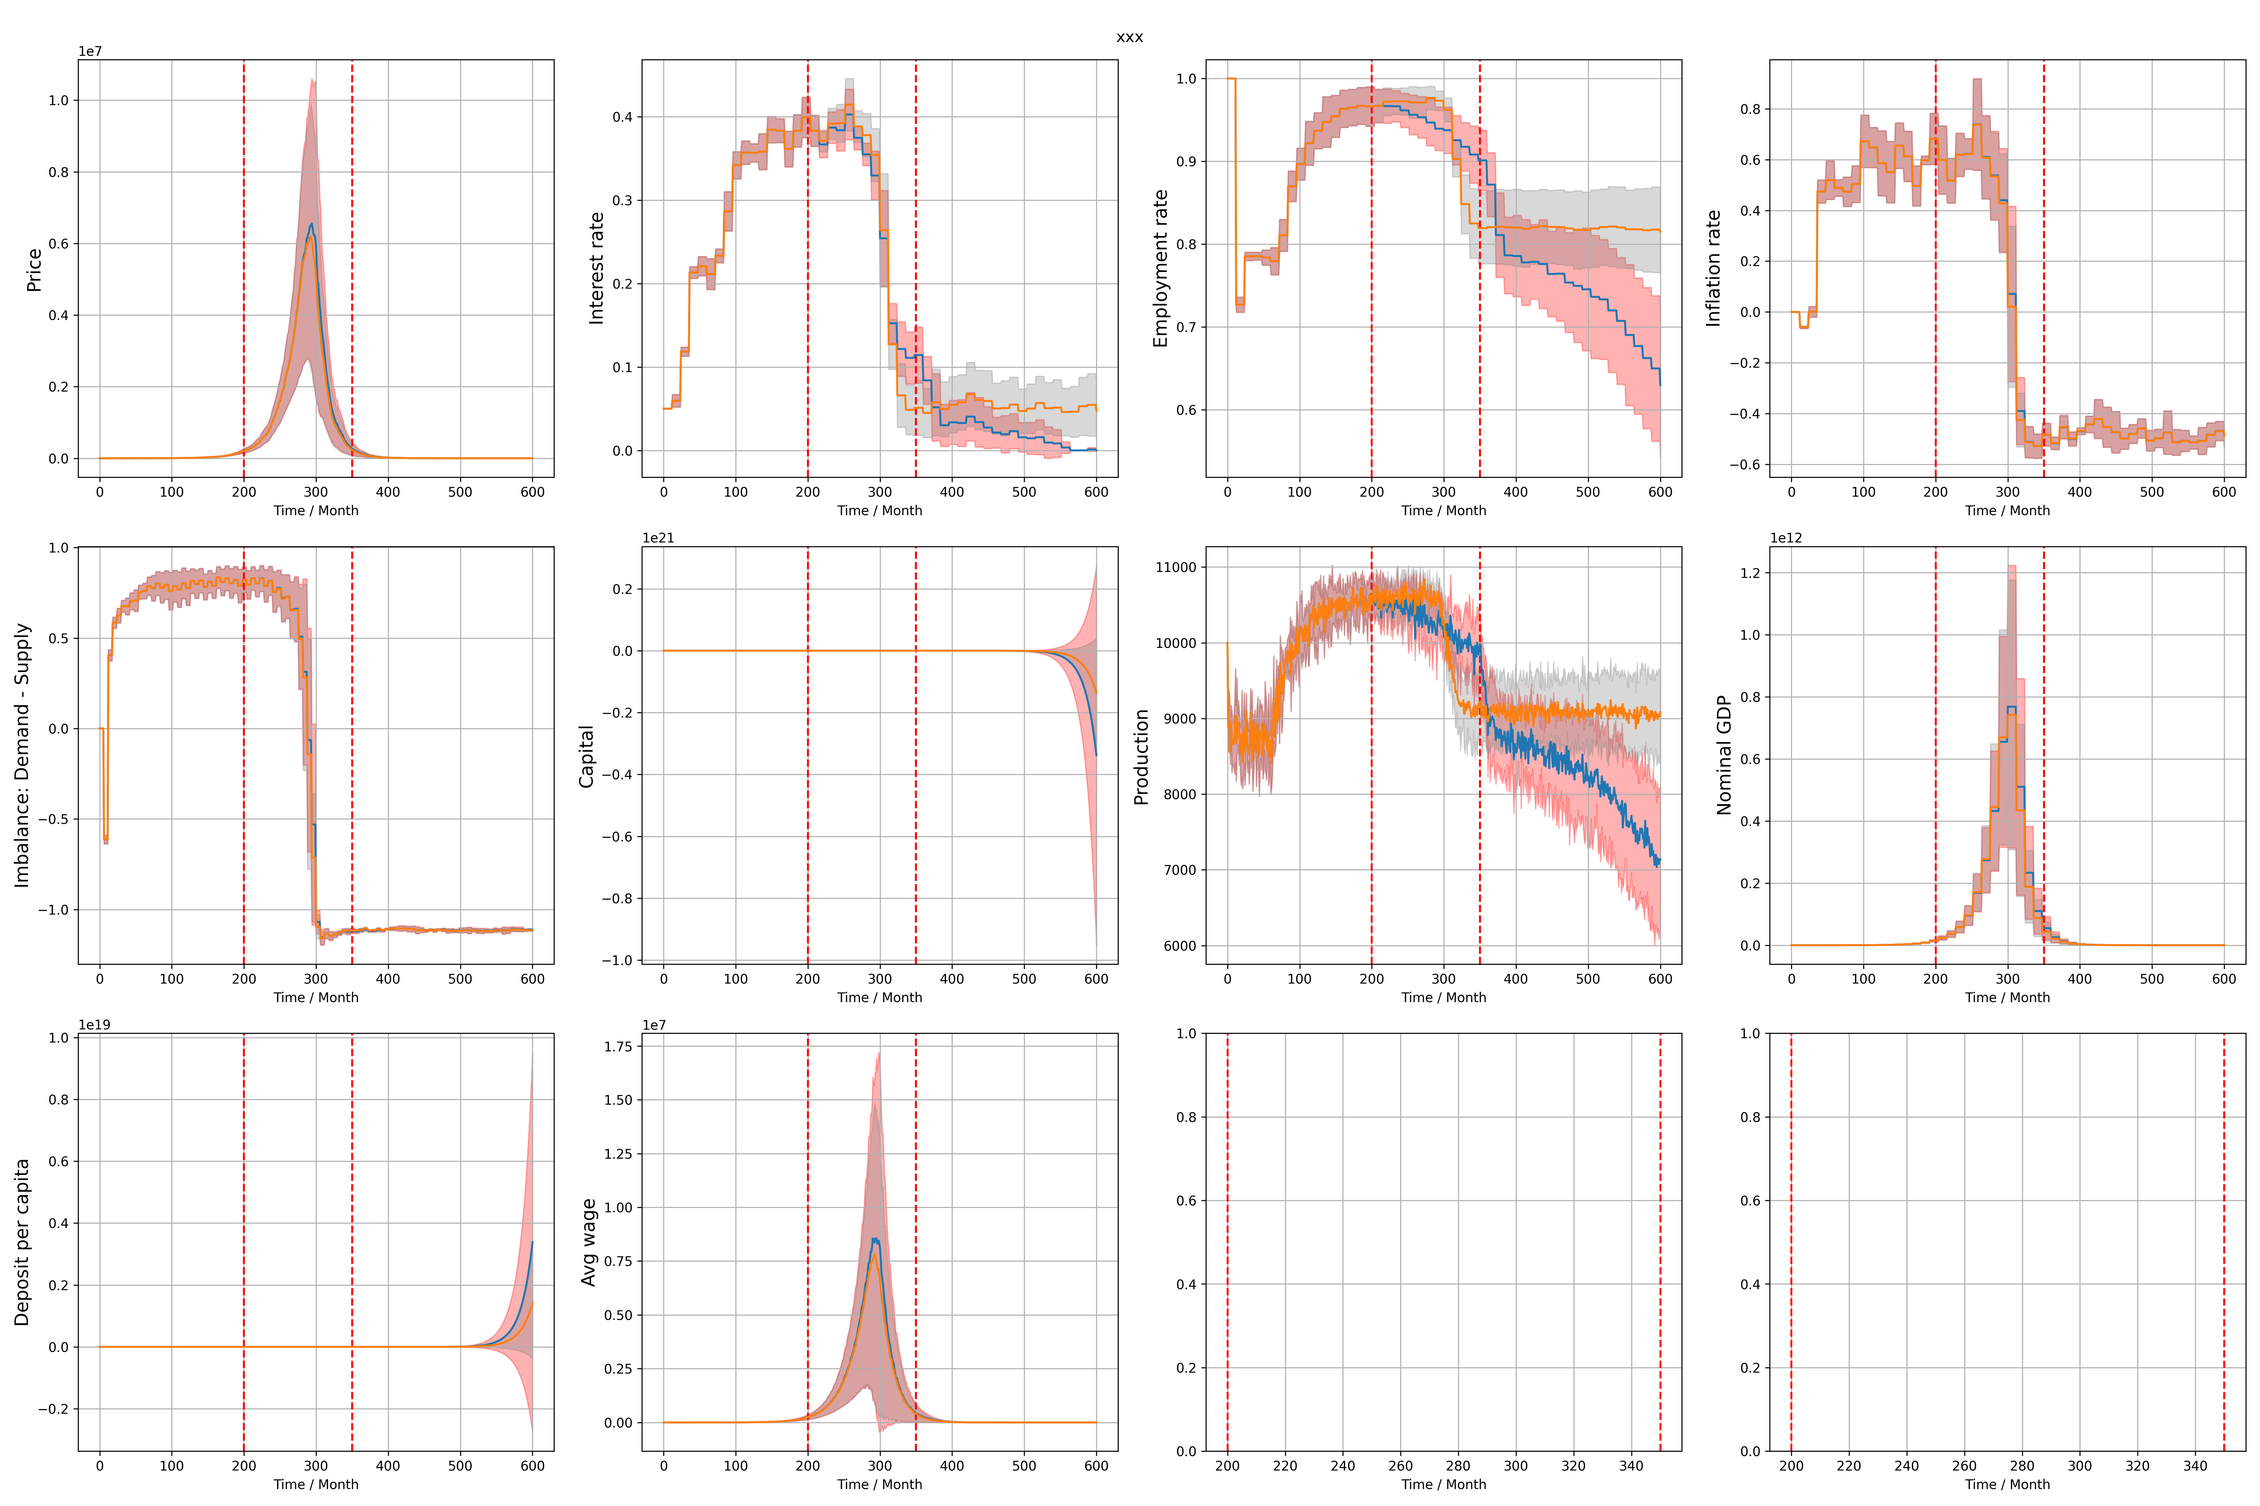
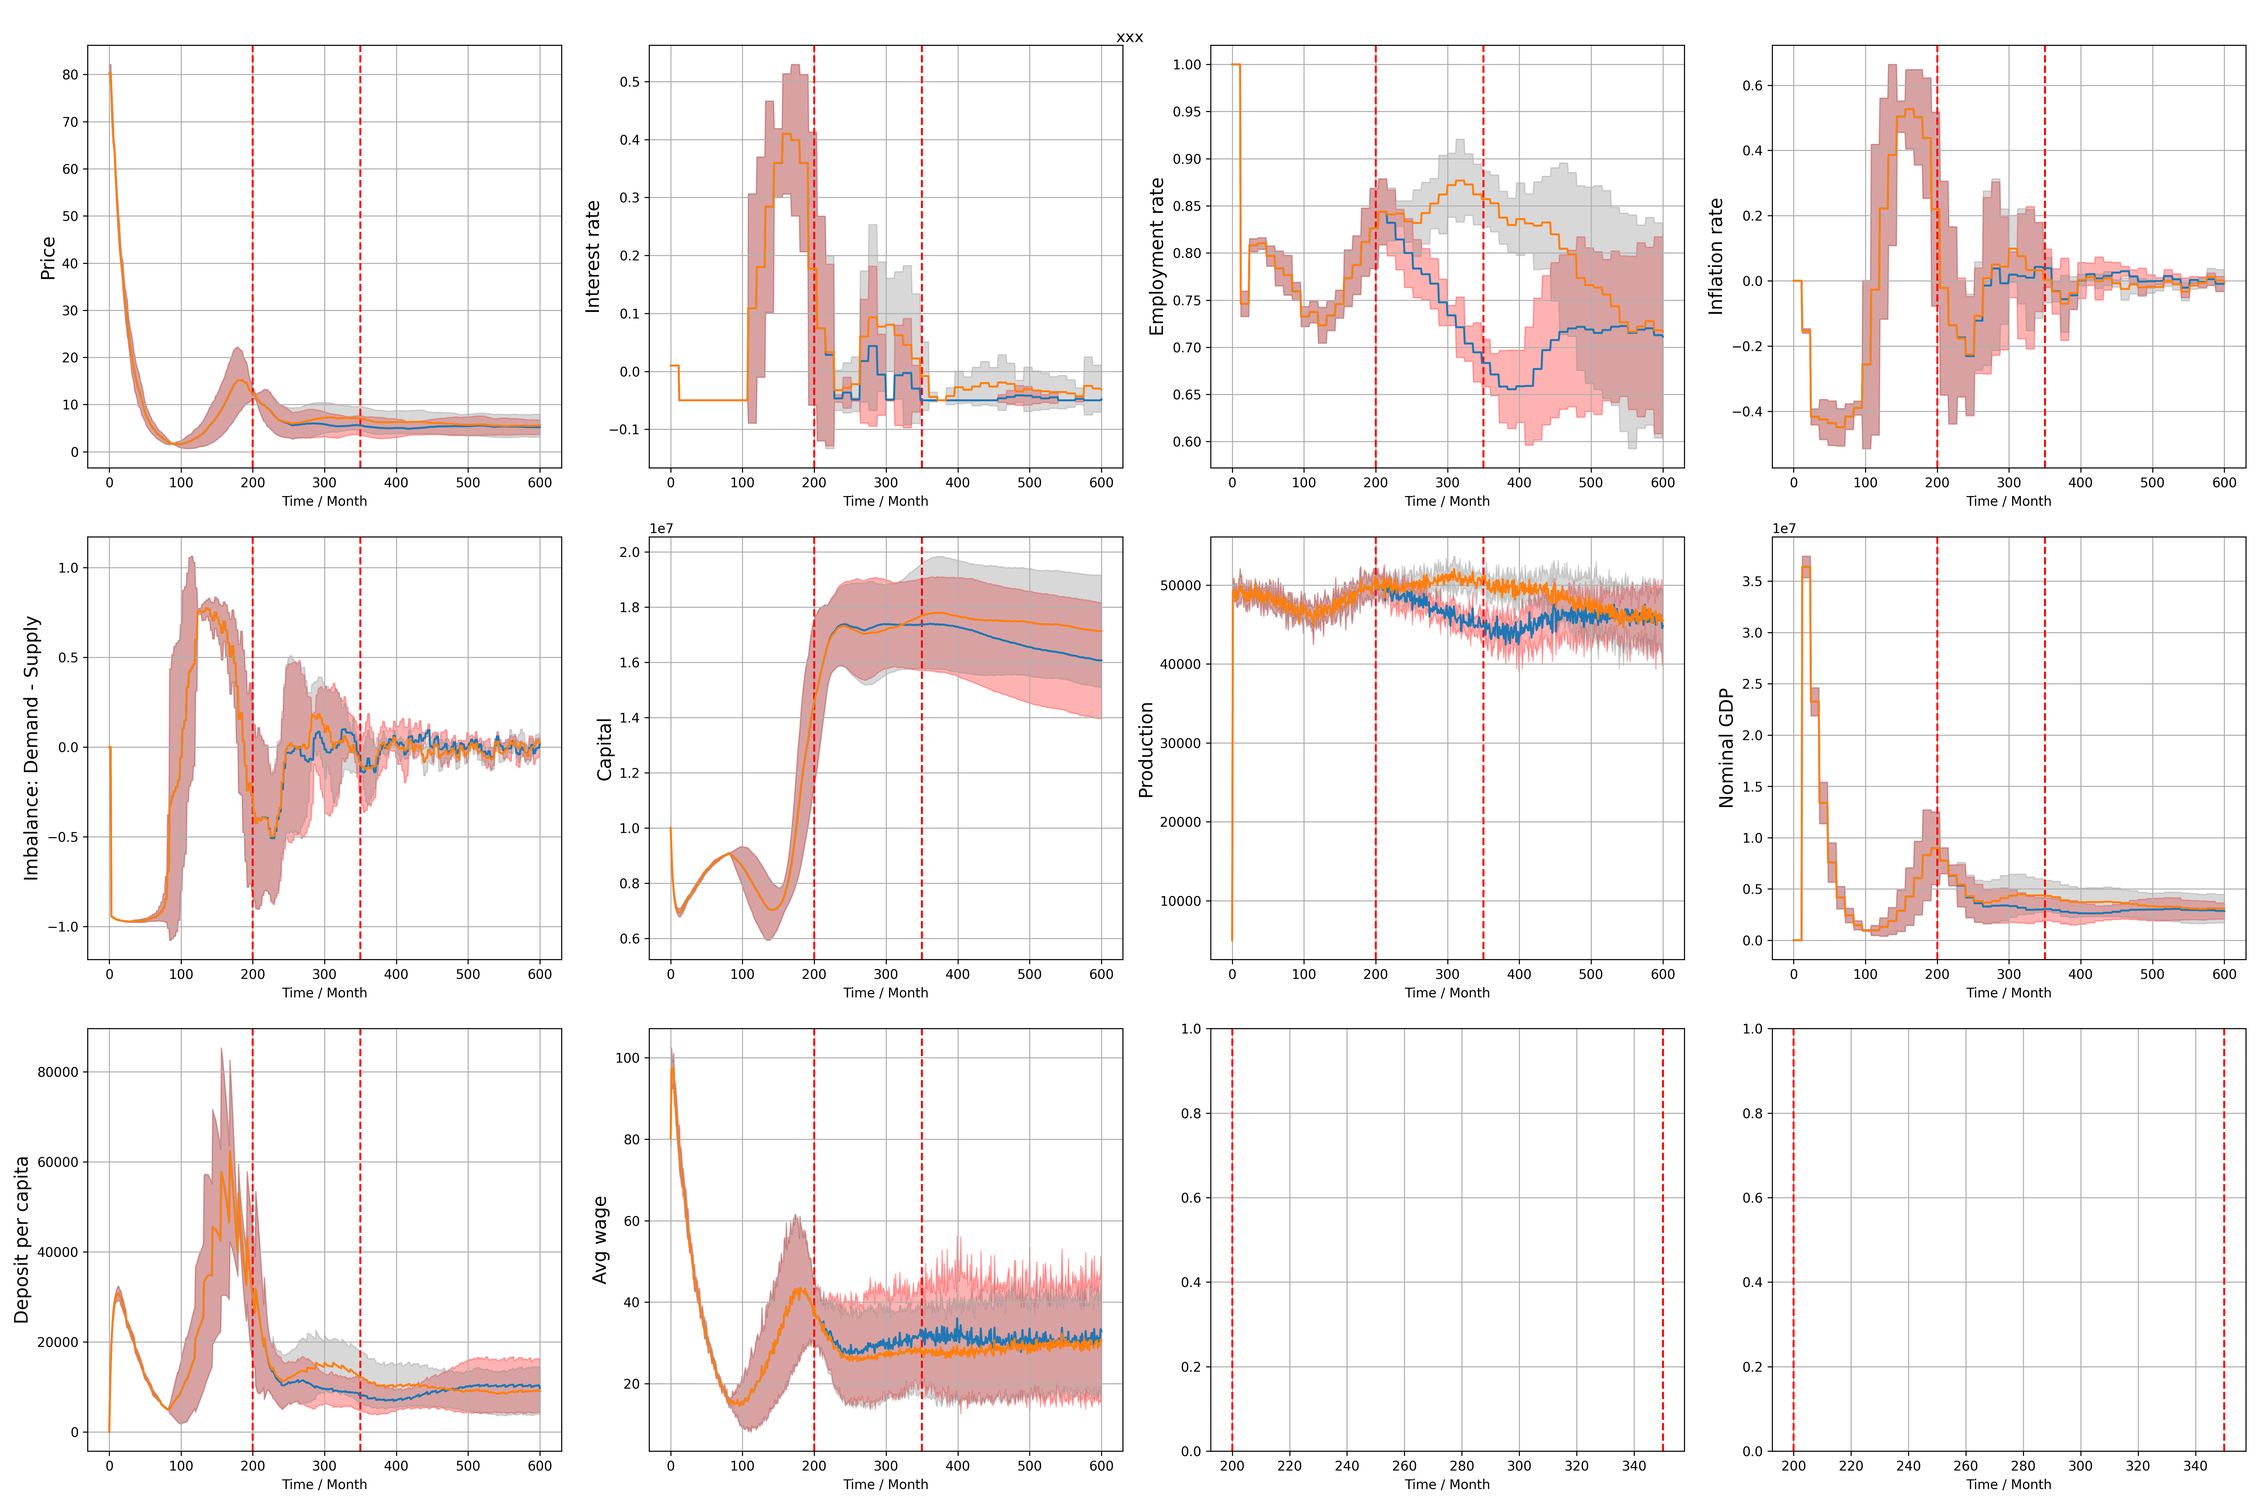
123

diff --git a/main.py b/main.py
@@ -12,10 +12,11 @@ def simulation(config:Configuration, event=False, intervention=False):
     '''one episode of simulation'''
     random.seed(config.seed)
     np.random.seed(config.seed)
-    
+    a_w = []
     F = firm(A=config.A, 
              alpha_w=config.alpha_w, 
              alpha_p=config.alpha_p,
+             alpha_c=config.alpha_c,
              init_good=config.init_good,
              init_cap=config.init_cap,
              )
@@ -54,7 +55,7 @@ def simulation(config:Configuration, event=False, intervention=False):
     
     for t in range(1, config.num_time_steps+1):
         
-        ################ 事 件 开 始 ################
+        ########################## 事 件 开 始 ##########################
         # 降低就业意愿
         # 产量减少，工资收入减少
         # GDP下降
@@ -73,49 +74,48 @@ def simulation(config:Configuration, event=False, intervention=False):
             if t >= config.event_start and t <= config.event_end:
                 for a, pw in zip(agents, a_pw):
                     # a.pw = 0.1 ** (1/300) * a.pw # 在t=900时，就业意愿下降到t=500时的25%
-                    a.pw = (0.6 ** (1/(config.event_end-config.event_start))) ** (t-config.event_start) * pw
+                    a.pw = (0.8 ** (1/(config.event_end-config.event_start))) ** (t-config.event_start) * pw
             work_state = [a.work_decision() for a in agents] # work decision
         else:
             work_state = [a.work_decision() for a in agents] # work decision
-        ################ 事 件 结 束 ################
+        ########################## 事 件 结 束 ##########################
         
         production = F.produce(agents) # 生产
         wages = F.pay_wage(agents)     # 支付工资
-        taxes = taxation(wages)        # 计算个税
-        wages_after_tax = [w - t for w, t in zip(wages, taxes)]
+        taxes, wages_after_tax = taxation(wages)        # 计算个税
+        
         for a, w in zip(agents, wages_after_tax):
             a.z = w # update monthly income
-            # print(t, a.id, w, sum(taxes), w + sum(taxes)/config.num_agents)
             
-            ################ 干 预 开 始 ################
+            ########################## 干 预 开 始 ##########################
             if t >= config.intervent_start and t <= config.intervent_end and intervention:
-                B.deposit(a.id, w + sum(taxes)/config.num_agents + 400) # 0.04*B.deposits[a.id] redistribution
+                B.deposit(a.id, w + sum(taxes)/config.num_agents + 100) # 0.04*B.deposits[a.id] redistribution
             else:
                 B.deposit(a.id, w + sum(taxes)/config.num_agents) # redistribution
-            ################ 干 预 结 束 ################
+            ########################## 干 预 结 束 ##########################
+        
+        
         if t % 3 == 0:
             imba = imbalance(agents, F.P, F.G, B.deposits)
         
         ###########################################
         # consumption in random order 随机顺序消费 #
         ###########################################
-        total_consume_money, total_consume_quantity, deposits = consumption(config, agents, F.G, F.P, B.deposits)
-        F.capital += total_consume_money
-        # print(t, '总消费量: ', total_consume_money)
-        #############################
-        # price and wage adjustment #
-        #############################
+        total_money, total_quantity, deposits = consumption(config, agents, F.G, F.P, deepcopy(B.deposits))
+        F.capital += total_money
+        # print(t, '总消费量: ', total_money)
         
+        ###########################################
+        # price and wage adjustment 调整工资和价格 #
+        ###########################################
         F.wage_adjustment(agents, imba)
         F.price_adjustment(imba)
-        F.G -= total_consume_quantity
-        print(B.deposits[1])
+        F.G -= total_quantity
         B.deposits = deposits
-        print(B.deposits[1], '\n')
         
-        #####################
-        # annual operation  #
-        #####################
+        ############################
+        # annual operation 年度调整 #
+        ############################
         if t % 12 == 0:
             B.interest(agents) # interest payment
             unem_rate = unemployment(log)
@@ -123,7 +123,6 @@ def simulation(config:Configuration, event=False, intervention=False):
             B.rate_adjustment(unem_rate, infla_rate) 
             Nominal_GDP = GDP(log)
         
-        print(t, F.capital)
         log[t] = {
             'year': t // 12.1 + 1,
             'work_state': work_state, 
@@ -141,9 +140,14 @@ def simulation(config:Configuration, event=False, intervention=False):
             'capital': F.capital,
             }
         
-        if t % 3 == 0 and t > 30:
+        if t % 6 == 0 and t > 30:
             for a in agents:
                 a.adjust(t, log)
+        a_w.append(agents[0].pc)
+    # import matplotlib.pyplot as plt
+    # plt.plot(a_w)
+    # print(a_w)
+    # plt.show()
 
     return log
 
@@ -152,40 +156,40 @@ if __name__ == '__main__':
     from config import Configuration
     from time import time
     
-    config = Configuration()
-    t1 = time()
-    log = simulation(config, event=False, intervention=False)
-    plot_log('./figs/log.png', log, config)
-    print('running time:{:.3f}'.format(time()-t1))
-    
     # config = Configuration()
-    # config.seed = 123456
-    # logs, logs_no_event = [], []
-    # for i in range(5):
-    #     print(f'Simulation {i+1}/5')
-    #     config.seed += i
-    #     log = simulation(config, event=True, intervention=True)
-    #     logs.append(log)
-    #     log = simulation(config, event=False, intervention=False)
-    #     logs_no_event.append(log)
-    # plot_bar('./figs/bar-event-intervention.png', logs, logs_no_event, config)
+    # t1 = time()
+    # log = simulation(config, event=True, intervention=True)
+    # plot_log('./figs/log.png', log, config)
+    # print('running time:{:.3f}'.format(time()-t1))
     
-    # config.seed = 123456
-    # logs = []
-    # for i in range(5):
-    #     print(f'Simulation {i+1}/5')
-    #     config.seed += i
-    #     log = simulation(config, event=True, intervention=False)
-    #     logs.append(log)
-    # plot_bar('./figs/bar-event-no-intervention.png', logs, logs_no_event, config)
+    config = Configuration()
+    config.seed = 123456
+    logs, logs_no_event = [], []
+    for i in range(5):
+        print(f'Simulation {i+1}/5')
+        config.seed += i
+        log = simulation(config, event=True, intervention=True)
+        logs.append(log)
+        log = simulation(config, event=False, intervention=False)
+        logs_no_event.append(log)
+    plot_bar('./figs/bar-event-intervention.png', logs, logs_no_event, config)
     
-    # config.seed = 123456
-    # logs = []
-    # for i in range(5):
-    #     print(f'Simulation {i+1}/5')
-    #     config.seed += i
-    #     log = simulation(config, event=False, intervention=True)
-    #     logs.append(log)
-    # plot_bar('./figs/bar-no-event-intervention.png', logs, logs_no_event, config)
+    config.seed = 123456
+    logs = []
+    for i in range(5):
+        print(f'Simulation {i+1}/5')
+        config.seed += i
+        log = simulation(config, event=True, intervention=False)
+        logs.append(log)
+    plot_bar('./figs/bar-event-no-intervention.png', logs, logs_no_event, config)
+    
+    config.seed = 123456
+    logs = []
+    for i in range(5):
+        print(f'Simulation {i+1}/5')
+        config.seed += i
+        log = simulation(config, event=False, intervention=True)
+        logs.append(log)
+    plot_bar('./figs/bar-no-event-intervention.png', logs, logs_no_event, config)
     # 
     # 

diff --git a/src/firm.py b/src/firm.py
@@ -6,7 +6,8 @@ class firm:
     def __init__(self, 
                  A:float, 
                  alpha_w:float, 
-                 alpha_p:float, 
+                 alpha_p:float,
+                 alpha_c:float, 
                  init_good:float,
                  init_cap:float,
                  ):
@@ -15,7 +16,9 @@ class firm:
         self.P = 0               # price of essential goods
         self.alpha_w = alpha_w   # wage adjustment parameter
         self.alpha_p = alpha_p   # price adjustment parameter
+        self.alpha_c = alpha_c   # capital adjustment parameter
         self.capital = init_cap  # initial capital
+        self.cap4product = 1e-4 * init_cap  # init capital for production
 
     def produce(self, agent_list:list[agent],):
         '''
@@ -23,12 +26,20 @@ class firm:
         '''
         # random production
         workers = sum([a.l for a in agent_list])
-        production = 168 * self.A * (1 + random.random() * 0.05) * (workers**0.9)
-        # for a in agent_list:
-        #     if a.l == 1: production += 168 * self.A
+        production = 168 * self.A * (1 + random.random() * 0.05) * (workers**0.5) * (self.cap4product ** 0.5)
+        
         self.G += production
+        self.capital -= self.cap4product
         return production
     
+    def cap_adjustment(self, imbalance:float):
+        '''
+        imbalance>0, 需求 > 产量, 增加资本
+        imbalance<0, 需求 < 产量, 减少资本
+        '''
+        sgn = 1 if imbalance > 0 else -1
+        self.cap4product *= (1 + sgn * self.alpha_c * abs(imbalance) * np.random.uniform())
+        
     def wage_adjustment(self, agent_list:list[agent], imbalance:float):
         '''
         imbalance>0, 需求 > 产量, 提高工资
@@ -46,7 +57,7 @@ class firm:
         '''
         sgn = 1 if imbalance > 0 else -1
         self.P *= (1 + sgn * self.alpha_p * abs(imbalance) * np.random.uniform())
-        return self.P
+        # return self.P
     
     def pay_wage(self, agent_list:list):
         wages = []

diff --git a/src/bank.py b/src/bank.py
@@ -35,8 +35,17 @@ class bank:
     def rate_adjustment(self, unemployment_rate:float, inflation_rate:float):
         '''
         Taylor rule for interest rate adjustment
+        若 inflation rate > pi_t, 通胀高于预期, 意味着需求过旺, 超出了经济的生产能力, 从而推高了物价.
+        提高利率会增加借贷成本, 减少消费和投资需求, 从而抑制整体需求. 这种需求抑制可以帮助减缓通胀压力, 使通胀率逐步回到目标水平.
         
+        若 unemployment rate < un, 实际失业率低于自然失业率, 说明劳动力市场需求旺盛, 几乎所有愿意工作的人都能找到工作.
+        这种情况下, 企业可能会难以找到足够的劳动力, 从而增加工资支出以吸引员工. 
+        更高的工资意味着更高的生产成本, 这些成本往往会转嫁给消费者, 导致商品和服务价格上涨. 
+        持续的工资和价格上涨可能会导致经济过热, 形成通胀压力. 提高名义利率可以减缓经济活动, 防止经济从过热走向失控.
         '''
-        rate_after = max(self.rn + self.pi_t + self.alpha_pi * (inflation_rate - self.pi_t) + self.alpha_u * (self.un - unemployment_rate), self.rate_min)
+        rate_after = max(self.rn + self.pi_t + \
+                        self.alpha_pi * (inflation_rate - self.pi_t) + \
+                        self.alpha_u * (self.un - unemployment_rate), 
+                        self.rate_min)
         self.rate = rate_after
         return rate_after

diff --git a/config.py b/config.py
@@ -13,7 +13,7 @@ class Configuration:
     #####################################
     seed = 124 # int(time()) # 123
     num_agents = 100
-    num_time_steps = 12 * 100
+    num_time_steps = 12 * 50
     
     
     #####################################
@@ -23,6 +23,7 @@ class Configuration:
     A = 1.0         # 生产率
     alpha_w = 0.05
     alpha_p = 0.10
+    alpha_c = 0.05
     init_good = 5000
     init_cap = 1e7
     
@@ -30,11 +31,11 @@ class Configuration:
     ##           银行模型参数           ##
     #####################################
     rn = 0.01 # 0.01         # natural interest rate 自然利率
-    pi_t = 0.02 # 0.02        # target inflation rate 目标通膨率
-    un = 0.04 # 0.04          # natural unemployment rate 自然失业率
-    alpha_pi = 0.5
-    alpha_u = 1 - alpha_pi
-    r_min = 0            # minimal inter
+    pi_t = 0.1 # 0.02        # target inflation rate 目标通膨率
+    un = 0.1 # 0.04          # natural unemployment rate 自然失业率
+    alpha_pi = 1.0
+    alpha_u = 1.0
+    r_min = -0.05            # minimal inter
     
     
     #####################################
@@ -50,7 +51,7 @@ class Configuration:
     pc_low = 0.1
     pc_high = 0.4
     
-    pw_delta = 0.3
+    pw_delta = 0.03
     pc_delta = 0.005
     
     

diff --git a/src/agent.py b/src/agent.py
@@ -74,5 +74,7 @@ class agent:
         
         self.pw += sgn_deposit * np.random.uniform() * self.pw_delta # 存款多了减少工作意愿
         self.pw += sgn_wage * np.random.uniform() * self.pw_delta    # 工资多了增加工作意愿
+        self.pw = max(0, min(self.pw, 1.0))
         self.pc += sgn_price * np.random.uniform() * self.pc_delta   # 价格上涨减少消费意愿
         self.pc += sgn_deposit * np.random.uniform() * self.pc_delta # 存款多了增加消费意愿
+        self.pc = max(0, min(self.pc, 1.0))

diff --git a/utils.py b/utils.py
@@ -39,7 +39,9 @@ def taxation(wages:list[float]):
         if w > brackets[-1]:
             tax += (w - brackets[-1]) * rates[-1]
         taxes.append(tax)
-    return taxes
+    
+    wages_after_tax = [w - t for w, t in zip(wages, taxes)]
+    return taxes, wages_after_tax
 
 def total_deposit(deposits:dict):
     return sum([deposits[id] for id in deposits.keys()])
